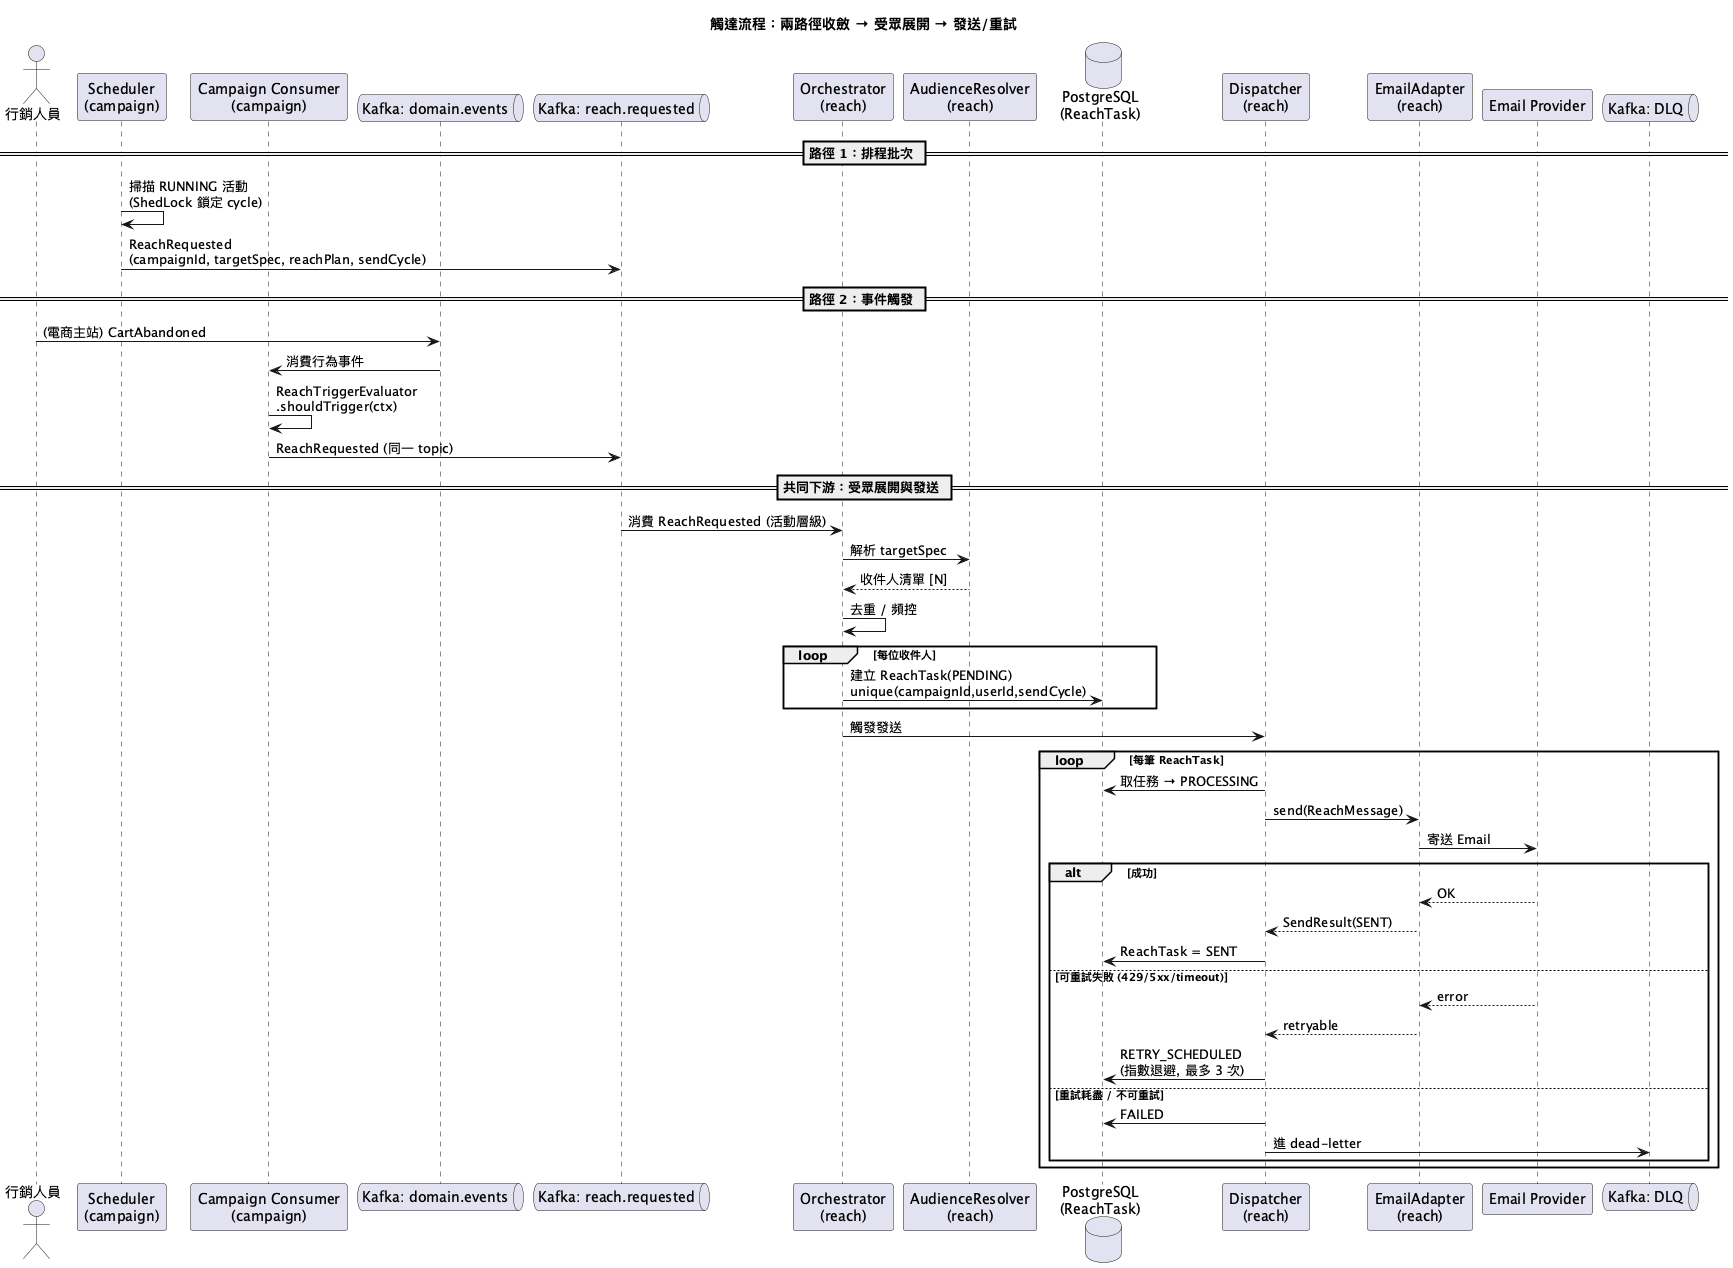
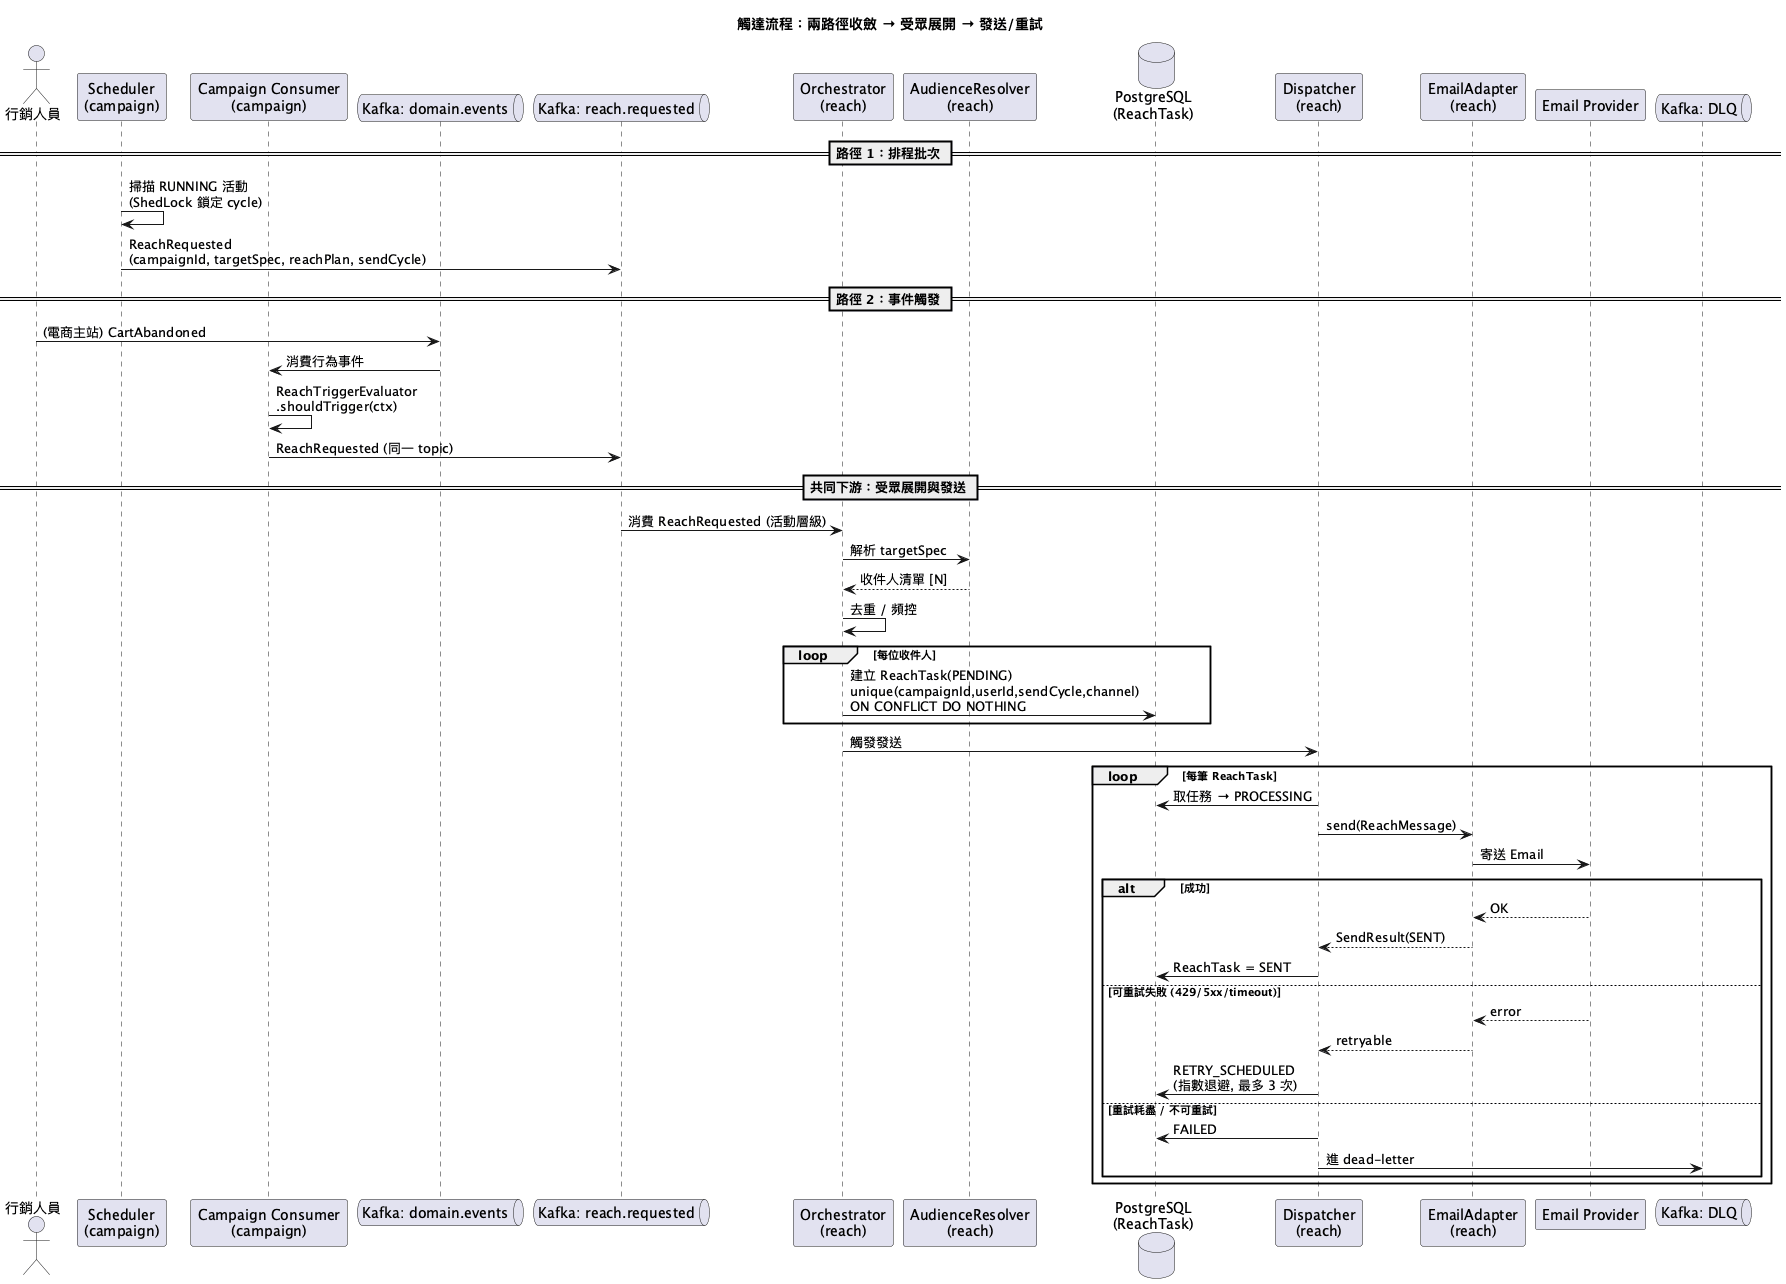
docs: address spec review findings I-1~I-8 in design.md
- 冪等鍵統一四欄 (campaign_id,user_id,send_cycle_key,channel)（圖/文對齊）
- 定義 send_cycle_key 命名對齊與排程/事件推導規則
- 取消 task 的 PROCESSING 競態語意（re-check + 放行邊界）
- reach_request 計數改背景聚合、fan-out 批次冪等與斷點續跑
- 新增 Kafka 規格、PII/安全/保留、Scaling 風險清單三節

diff --git a/openspec/changes/add-ecommerce-campaign-system/design.md b/openspec/changes/add-ecommerce-campaign-system/design.md
@@ -197,6 +197,19 @@ Reach.dispatcher    → SendResultRecorded  (使用者層級：發送結果)
 - `status`（PENDING/EXPANDING/DISPATCHING/DONE/FAILED/CANCELLED）+ `send_cycle_key`：支撐「批次重跑」與排程「已處理 cycle」補償。
 - 觸發語意以 `trigger_type`（SCHEDULED_BATCH/EVENT）與 `trigger_event_id` 表達，取代以 free-text 表示 cycle。
 
+#### send_cycle_key 命名與推導（冪等命脈）
+
+**命名對齊**：事件 payload 與領域物件用駝峰 `sendCycle`（一個字串），落庫欄位用 snake_case `send_cycle_key`。**兩者為同一個值**，僅命名風格差異；orchestrator 寫 reach_request / reach_task 時直接以事件的 `sendCycle` 值填入 `send_cycle_key`，不做任何轉換。
+
+**推導規則**（依 `trigger_type` 不同，且必須是**確定性、可重現**的，否則 unique constraint 失效會導致重複建立 task → 重複發送）：
+
+| trigger_type | send_cycle_key 推導 | 去重語意 |
+|---|---|---|
+| `SCHEDULED_BATCH` | `sched:{campaignId}:{cycleStart}`，其中 `cycleStart` 為「依活動排程週期將觸發時點向下取整（truncate）後的 ISO-8601 字串」 | 同一活動同一排程週期只會產生一把 key；scheduler 重啟、補掃、多實例（ShedLock）重跑皆推導出相同 key |
+| `EVENT` | `event:{triggerEventId}`，`triggerEventId` 為來源行為事件的唯一 ID | 同一來源事件重投只去重自身；**不同事件 id 不會互相去重**（跨事件的重複觸達由「頻控」處理，非冪等） |
+
+`cycleStart` 的 truncate 粒度由活動排程設定決定（例：每日批次 → 截到日；每小時 → 截到時）。**禁止**在 key 內放入 `now()` 級別的即時時間戳或 scheduler 啟動時間，否則同一邏輯週期會算出不同 key。
+
 ### 路徑 1：排程批次發送
 
 ```
@@ -219,11 +232,14 @@ Reach.dispatcher    → SendResultRecorded  (使用者層級：發送結果)
 
 ```
 [reach.orchestrator] 消費 reach.requested（活動層級）
-   ├─ 建立 reach_request 批次（凍結 snapshot）
+   ├─ upsert reach_request 批次（unique(campaign_id, send_cycle_key, trigger_type) 確保同事件只建一筆批次）
+   │    └─ 已存在且 status=DONE → 直接 ack 跳過（Kafka 重投保護）；否則進入/續跑展開
+   ├─ 凍結 snapshot（target_spec / reach_plan）
    ├─ AudienceResolver 解析 targetSpec → 收件人清單
-   ├─ 冪等去重（DB unique constraint 防同事件重複建立 task）
-   ├─ 頻控（orchestrator 在建立 ReachTask 前查詢時間窗口，防不同事件在短時間對同人重複發）
-   ├─ 為每個收件人建立 ReachTask(PENDING) 寫入 DB（使用者層級）
+   ├─ 分頁展開（每批 M 筆），逐批：
+   │    ├─ 頻控（建立 ReachTask 前查詢時間窗口，防不同事件在短時間對同人重複發）
+   │    └─ 批次 INSERT ReachTask(PENDING)，ON CONFLICT DO NOTHING（task unique 防重複，支援斷點續跑）
+   ├─ 更新 reach_request.status：EXPANDING → DISPATCHING；total_count 於展開完成時一次回填
    └─► 逐筆送 dispatcher
 
 [dispatcher] 以 FOR UPDATE SKIP LOCKED 撈可發送任務（兩階段事務，避免外部 I/O 佔用 DB 連線）
@@ -246,6 +262,24 @@ Reach.dispatcher    → SendResultRecorded  (使用者層級：發送結果)
   - **冪等（Idempotency）**：DB unique constraint `(campaign_id, user_id, send_cycle_key, channel)` 防止同一事件/週期重複建立 ReachTask。注意：事件觸發的 `send_cycle_key = event:{id}`，不同事件 id 不相同，unique constraint 無法跨事件去重。
   - **頻控（Frequency Capping）**：orchestrator 建立 ReachTask 前，查詢該用戶在指定時間窗口內的歷史 reach_task（`WHERE campaign_id = :cid AND user_id = :uid AND created_at > :threshold`），命中則跳過，確保短時間不重複觸達。
 
+#### 受眾展開（fan-out）可靠性
+
+單筆 `ReachRequested` 可能展開成 10 萬筆 task，展開過程須能承受 crash 與 Kafka at-least-once 重投：
+
+- **批次冪等**：`reach_request` 以 `unique(campaign_id, send_cycle_key, trigger_type)` 去重，同一事件重投不會建立第二筆批次，計數也不會被重複污染。
+- **斷點續跑**：展開分頁進行，task 以 `ON CONFLICT DO NOTHING` 寫入（落在 reach_task 的四欄 unique 上）。展開到一半 crash 後重投，已寫入的 task 不會重複，未寫入的續寫，最終收斂到完整 N 筆。
+- **狀態推進**：reach_request 走 `PENDING → EXPANDING → DISPATCHING → DONE`；只有 `DONE` 才視為展開完成，未完成者允許 orchestrator 重新接手續跑。
+
+#### reach_request 計數欄位的維護（避免第二個熱點）
+
+`total_count / pending_count / sent_count / failed_count` **不採「每筆 task 狀態變更即時 update 同一 reach_request row」**——否則單一批次列在 10 萬筆 task 高並發下會成為 row-lock 熱點（與 `coupon_campaign.used_count` 同類問題）。改採：
+
+- `total_count`：展開完成時一次回填。
+- `sent/failed/pending_count`：由背景排程**定期聚合 reach_task 回填**（近似即時，報表可接受秒級延遲），而非逐筆即時更新。
+- 需要精確即時數字的場景（少數）才直接 `COUNT(*)` reach_task（有 `reach_task(campaign_id, status)` 索引支撐）。
+
+詳見第 8 節 Scaling 風險清單。
+
 ## 6. 錯誤處理與韌性
 
 ### 發送層
@@ -267,7 +301,15 @@ Reach.dispatcher    → SendResultRecorded  (使用者層級：發送結果)
 
 ### 外部通道服務中斷
 
-- EmailAdapter 包 circuit breaker（Resilience4j）：服務掛掉時快速失敗並讓 ReachTask 留在 PENDING，恢復後由 dispatcher 重掃。
+- EmailAdapter 包 circuit breaker（Resilience4j）：breaker 開啟時，dispatcher 在**階段 1 標記 PROCESSING 前**即偵測 breaker 狀態，直接跳過該筆、任務維持 `PENDING`（未進入 PROCESSING），恢復後由 dispatcher 重掃。若 breaker 在已標 PROCESSING 後才於外部呼叫快速失敗，則比照可重試失敗走階段 2 回寫 `RETRY_SCHEDULED`，不會卡在 PROCESSING。
+
+### 活動暫停/結束的取消競態（與 dispatcher 的互動）
+
+活動進入 `PAUSED`/`ENDED` 時要取消未送 task（FR-017），但取消動作與 dispatcher 撈取存在競態，語意明確定義如下：
+
+- **取消只作用於尚未進入發送的任務**：批次 `UPDATE reach_task SET status='CANCELLED' WHERE campaign_id=:cid AND status IN ('PENDING','RETRY_SCHEDULED')`。`PROCESSING` 不在取消範圍。
+- **dispatcher 階段 1 設防**：撈取並標記 PROCESSING 的同一短事務內，重新檢查活動狀態（`campaign.status NOT IN ('PAUSED','ENDED')`）；活動已停用者不標 PROCESSING、改標 `CANCELLED`。如此「取消」與「撈取」由 DB 列鎖序列化，二者不會同時放行同一筆。
+- **已 PROCESSING 者放行（明示邊界）**：若某筆在取消發生前的瞬間已被標 PROCESSING（外部 send 進行中），則**允許其完成**，不強制中止。這是有界且極小的洩漏窗口（單筆外部呼叫時長），本系統明確接受此語意，不為消除它而引入分散式中止協定。
 
 ### ReachTask 狀態機
 
@@ -317,6 +359,69 @@ worker 友善欄位：`next_retry_at`、`processing_started_at`、`last_attempt_
 - 內部 REST 建立活動 → 觸發 → 查 `ReachTask` 與彙總報表，驗證全鏈路。
 
 **原則**：規則計算與冪等/重試用快速單元測試密集覆蓋；跨 Kafka/DB 行為用 Testcontainers 少量但真實地驗證，不 mock 掉 broker。
+
+## 8. Scaling 風險清單
+
+集中列出已知擴展瓶頸，避免讀者誤以為僅有單一熱點。MVP（10 萬筆級）皆可接受，標註演進方向：
+
+| # | 熱點 | 成因 | MVP 緩解 | 演進方向 |
+|---|---|---|---|---|
+| S-1 | `coupon_campaign.used_count` row lock | 熱門閃購高並發核銷對同一列 atomic update | 控總量正確性優先，接受序列化 | Redis 預扣 + 非同步回寫 |
+| S-2 | `reach_request` 計數欄位 | 逐筆 task 變更即時 update 同一批次列 | **不即時更新**，改背景定期聚合回填（見 §5） | 計數外移至 OLAP / 物化檢視 |
+| S-3 | 受眾展開 fan-out | 單事件展開 10 萬 task 的寫入與續跑 | 分頁批次 INSERT + ON CONFLICT，斷點續跑 | 拆多 partition 並行展開 |
+| S-4 | Kafka 熱分區 | 單一大型活動的事件集中到同一 partition | partition key 選擇見 §9，避免以 campaign_id 單鍵分區 | 動態子分區 / 加大分區數 |
+| S-5 | dispatcher DB 撈取爭用 | 大量 worker 對 reach_task 撈取 | `FOR UPDATE SKIP LOCKED` + 覆蓋索引 | 分片撈取 / 多隊列 |
+
+## 9. Kafka 規格（topic / 分區 / 消費者）
+
+| topic | producer | consumer group | 用途 | 訊息層級 |
+|---|---|---|---|---|
+| `domain.events` | 電商主站 | `campaign-trigger` | 行為事件（CartAbandoned, OrderPlaced…） | 使用者層級 |
+| `reach.requested` | campaign（scheduler + consumer） | `reach-orchestrator` | 觸發觸達請求 | 活動層級 |
+| `reach.dlq` | reach.dispatcher | 人工 / 重放工具 | 重試耗盡的 task | 使用者層級 |
+
+**分區鍵（partition key）**
+
+- `domain.events`：以 `user_id` 分區。保證同一使用者的行為事件有序，且自然分散，避免熱分區。
+- `reach.requested`：**以 `reach_request_id`（或 `campaign_id + send_cycle_key` 的雜湊）分區，而非單純 `campaign_id`**。理由：單純以 `campaign_id` 分區會使單一大型活動的所有請求集中到一個 partition，形成熱分區並拖累其他活動（違反 NFR-002「活動間互不影響」）。本系統 `reach.requested` 為活動層級、量少（每 cycle 一筆），分散後即可避免集中。
+- `reach.dlq`：沿用來源 task 的鍵即可，重放時保有原序。
+
+**Ordering 假設**
+
+- `domain.events` 需要 per-`user_id` 有序（同人行為先後語意）；跨 user 無序。
+- `reach.requested` **不依賴跨訊息順序**——每筆活動層級請求獨立展開，冪等由 DB constraint 保證，故無嚴格 ordering 需求。
+
+**消費者冪等**
+
+- 所有 consumer 採 at-least-once；冪等由消費端的 DB unique constraint 達成（reach_request 批次鍵、reach_task 四欄鍵），不依賴 broker exactly-once。
+- consumer offset 在「處理已落庫（含 reach_request upsert / task 寫入）」後才 commit，確保重投可安全續跑。
+
+## 10. PII、安全與資料保留
+
+Email 為個資（PII），本系統處理收件人資料，須定錨以下立場：
+
+**收件人資料來源與儲存**
+
+- `reach_task` 只存 `user_id`，**不落收件 email 等 PII**。實際 email 於 dispatcher 發送當下，由 user/profile 服務以 `user_id` 即時解析取得，發送後不持久化於 reach 表。
+- `send_result` 僅存 `provider_message_id` 與 outcome，不存信件內容與收件地址。
+
+**安全**
+
+- 內部 REST（活動 CRUD、重放工具）須經身分驗證與授權（營運後台角色），非公開端點；寫入操作記入 `created_by`/`updated_by` 稽核欄位。
+- 與 Email provider 的金鑰經 secret 管理（環境變數 / vault），不入庫、不入版控。
+- 傳輸層 TLS；DB 連線加密。
+
+**退訂與抑制名單（suppression）**
+
+- 發送前檢查抑制名單（退訂、硬退信、投訴）；命中者該 task 直接標 `FAILED`（不可重試原因），不送出。退訂屬第 6 節「不可重試」分類。
+- 抑制名單的維護與來源（消費者退訂入口）屬電商主站範疇，本系統僅消費其結果；MVP 以一張 `suppression`（user_id / channel / reason）查表，後續可演進。
+
+**資料保留**
+
+- `reach_task` / `send_result` 為觸達稽核軌跡，預設保留 N 個月（具體期限為 Open Question，待法遵確認）後歸檔或刪除。
+- 任何含 PII 的衍生快照（如未來若快照收件清單）須一併納入保留策略；目前設計刻意不落 PII 快照以降低暴露面。
+
+> 註：退訂入口 UI、抑制名單來源系統、確切保留月數仍為 Open Question（見 PRD），本節定錨設計立場，細節於 writing-spec 階段補實。
 
 ## Diagrams
 
